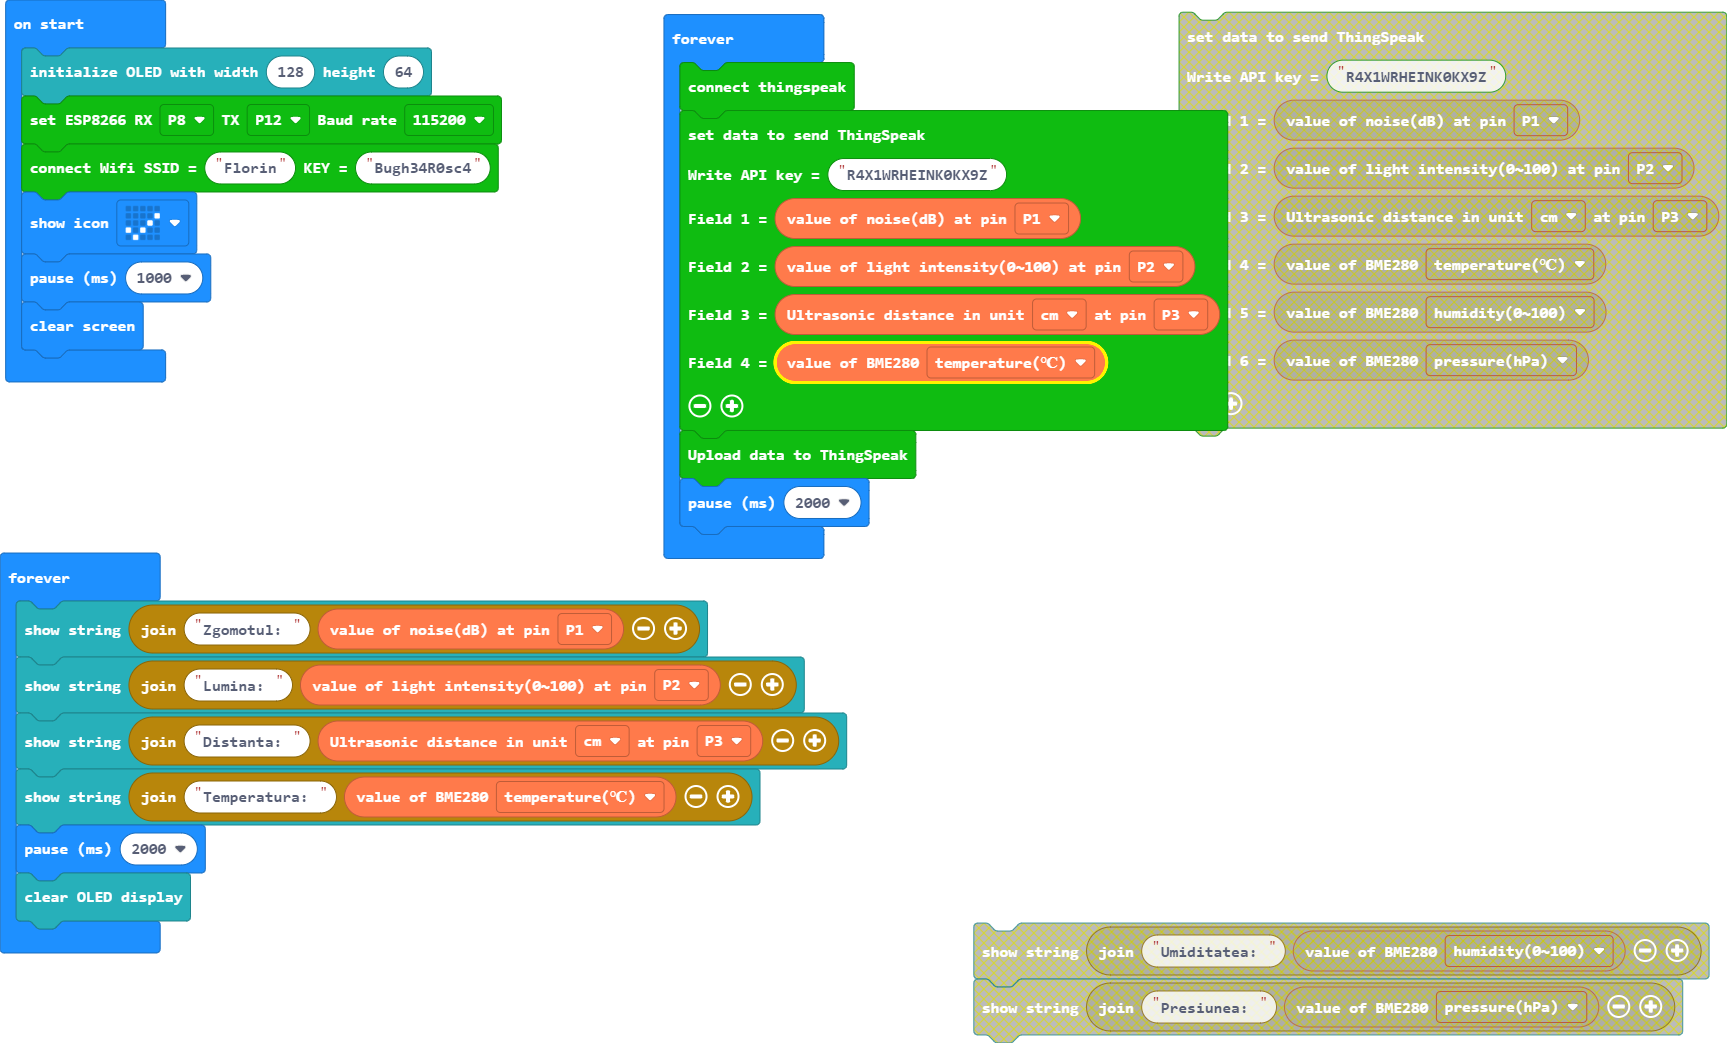
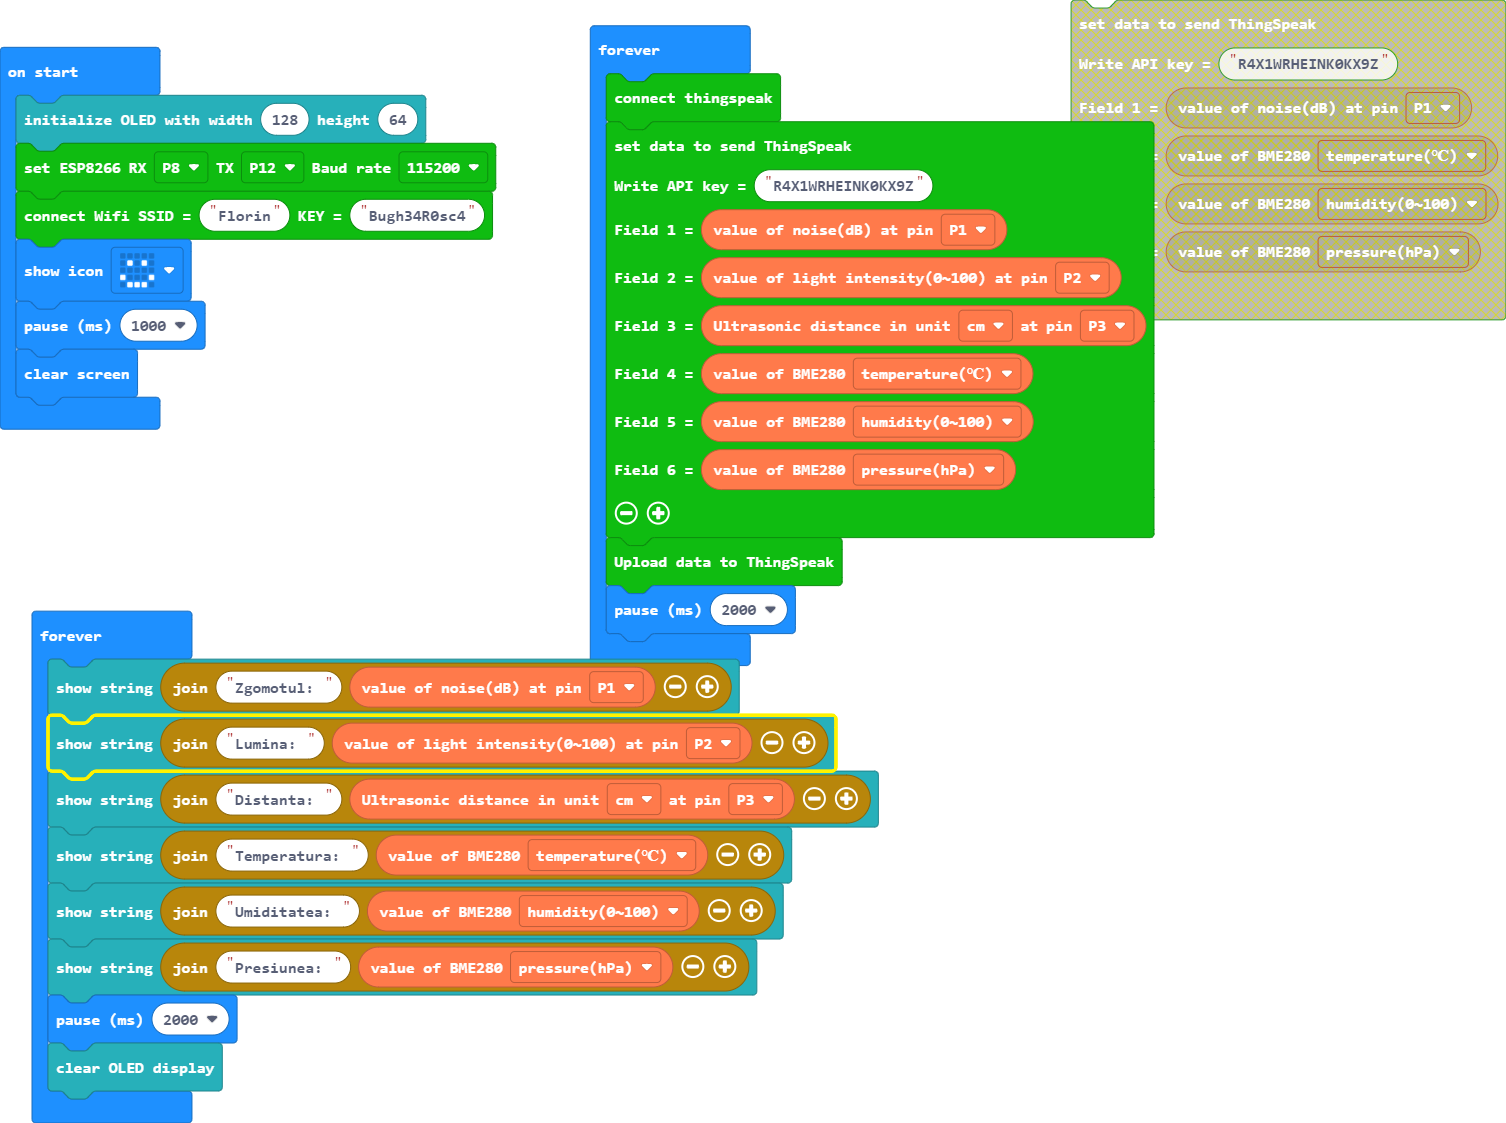
Update main.blocks, main.ts

diff --git a/main.ts b/main.ts
@@ -1,7 +1,7 @@
 OLED.init(128, 64)
 ESP8266_IoT.initWIFI(SerialPin.P8, SerialPin.P12, BaudRate.BaudRate115200)
 ESP8266_IoT.connectWifi("Florin", "Bugh34R0sc4")
-basic.showIcon(IconNames.Yes)
+basic.showIcon(IconNames.Happy)
 basic.pause(1000)
 basic.clearScreen()
 basic.forever(function () {
@@ -11,7 +11,9 @@ basic.forever(function () {
     Environment.ReadNoise(AnalogPin.P1),
     Environment.ReadLightIntensity(AnalogPin.P2),
     Environment.sonarbit_distance(Environment.Distance_Unit.Distance_Unit_cm, DigitalPin.P3),
-    Environment.octopus_BME280(Environment.BME280_state.BME280_temperature_C)
+    Environment.octopus_BME280(Environment.BME280_state.BME280_temperature_C),
+    Environment.octopus_BME280(Environment.BME280_state.BME280_humidity),
+    Environment.octopus_BME280(Environment.BME280_state.BME280_pressure)
     )
     ESP8266_IoT.uploadData()
     basic.pause(2000)
@@ -21,6 +23,8 @@ basic.forever(function () {
     OLED.writeStringNewLine("Lumina: " + Environment.ReadLightIntensity(AnalogPin.P2))
     OLED.writeStringNewLine("Distanta: " + Environment.sonarbit_distance(Environment.Distance_Unit.Distance_Unit_cm, DigitalPin.P3))
     OLED.writeStringNewLine("Temperatura: " + Environment.octopus_BME280(Environment.BME280_state.BME280_temperature_C))
+    OLED.writeStringNewLine("Umiditatea: " + Environment.octopus_BME280(Environment.BME280_state.BME280_humidity))
+    OLED.writeStringNewLine("Presiunea: " + Environment.octopus_BME280(Environment.BME280_state.BME280_pressure))
     basic.pause(2000)
     OLED.clear()
 })
